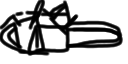
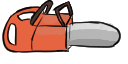
change images

diff --git a/src/scenes/Title.ts b/src/scenes/Title.ts
@@ -1,9 +1,7 @@
 import Phaser from 'phaser';
-import { GAME_WIDTH, GAME_HEIGHT, SCENE_KEYS } from '../constants';
+import { ASSET_KEYS, GAME_WIDTH, GAME_HEIGHT, SCENE_KEYS } from '../constants';
 
 const TITLE_OFFSET = 50;
-const TITLE_FONT_SIZE = '48px';
-const TITLE_COLOR = '#ffffff';
 const TEXT_FONT_SIZE = '24px';
 const TEXT_COLOR = '#aaaaaa';
 
@@ -12,11 +10,12 @@ export class Title extends Phaser.Scene {
     super({ key: SCENE_KEYS.TITLE });
   }
 
+  preload(): void {
+    this.load.image(ASSET_KEYS.TITLE, 'assets/title.png');
+  }
+
   create(): void {
-    this.add.text(GAME_WIDTH / 2, GAME_HEIGHT / 2 - TITLE_OFFSET, 'Machine Running', {
-      fontSize: TITLE_FONT_SIZE,
-      color: TITLE_COLOR,
-    }).setOrigin(0.5);
+    this.add.image(GAME_WIDTH / 2, GAME_HEIGHT / 2, ASSET_KEYS.TITLE);
 
     this.add.text(GAME_WIDTH / 2, GAME_HEIGHT / 2 + TITLE_OFFSET, 'Click to Start', {
       fontSize: TEXT_FONT_SIZE,

diff --git a/src/ui/CooltimeGauge.ts b/src/ui/CooltimeGauge.ts
@@ -1,17 +1,14 @@
 import Phaser from 'phaser';
 import {
   COOLTIME,
-  CHAINSAW,
 } from '../constants';
 
 export class CooltimeGauge {
-  private bg: Phaser.GameObjects.Rectangle;
   private fill: Phaser.GameObjects.Rectangle;
-  private label: Phaser.GameObjects.Text;
 
   constructor(scene: Phaser.Scene) {
     // 背景
-    this.bg = scene.add.rectangle(
+    scene.add.rectangle(
       COOLTIME.GAUGE.X,
       COOLTIME.GAUGE.Y,
       COOLTIME.GAUGE.WIDTH,
@@ -29,7 +26,7 @@ export class CooltimeGauge {
     ).setOrigin(0, 0);
 
     // ラベル
-    this.label = scene.add.text(
+    scene.add.text(
       COOLTIME.GAUGE.X,
       COOLTIME.GAUGE.Y + COOLTIME.GAUGE.HEIGHT + 4,
       'CHAINSAW',

diff --git a/src/constants.ts b/src/constants.ts
@@ -24,6 +24,7 @@ export const ASSET_KEYS = {
   PLAYER: 'Player',
   SHARK: 'shark',
   CHAINSAW: 'chainsaw',
+  TITLE: 'Title',
 } as const;
 
 export const GROUND_SCALE = 0.5;

diff --git a/src/scenes/Game.ts b/src/scenes/Game.ts
@@ -10,7 +10,6 @@ import {
   CHAINSAW,
   GAME_WIDTH,
   GAME_HEIGHT,
-  GROUND_HEIGHT,
   GROUND_WIDTH,
   GROUND_SCALE,
   GROUND_Y,
